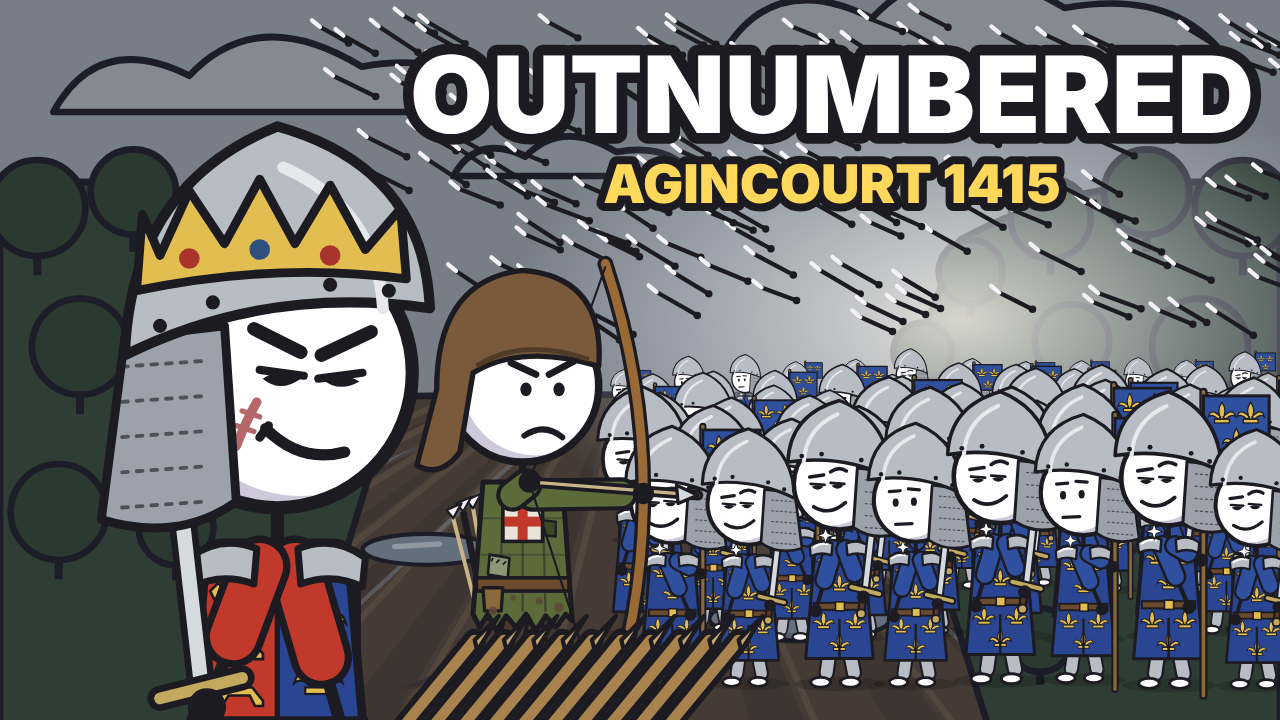
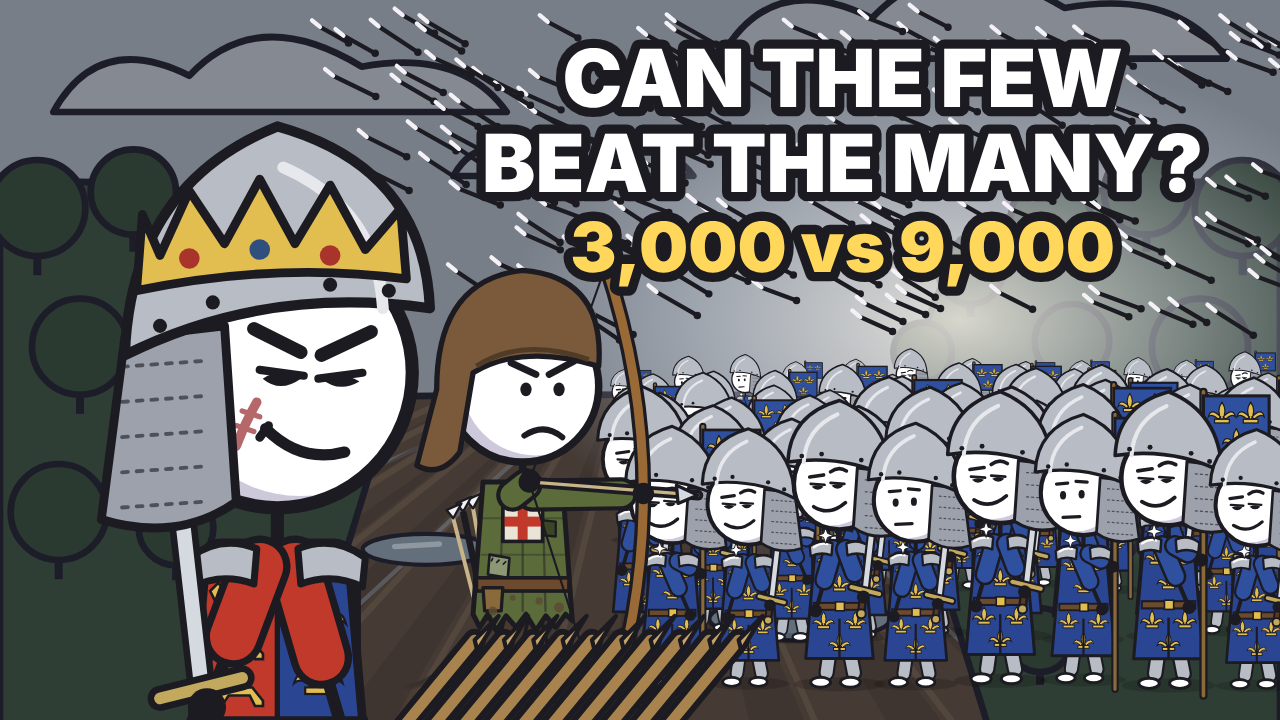
Episode 3 thumbnail: 'Can the few beat the many? 3,000 vs 9,000'
Claude-Session: https://claude.ai/code/session_017MZkjKDMev6tKpnRG7nu5t

Changed region(s): [[0.3125, 0.0306, 1.0, 0.4278]]

diff --git a/episodes/03-agincourt/thumbnail.js b/episodes/03-agincourt/thumbnail.js
@@ -1,6 +1,6 @@
 // Thumbnail for episode 3 (1280x720), drawn with the character code in index.html.
 // Usage: node episodes/03-agincourt/thumbnail.js
-// Idea: "OUTNUMBERED". Henry V (crown on helmet, scar, confident smirk) and a few ragged English
+// Idea: "Can the few beat the many? 3,000 vs 9,000" (owner's wording). Henry V (crown on helmet, scar, confident smirk) and a few ragged English
 // archers behind their stakes in the mud, facing a huge wall of shiny French knights under a
 // sky full of arrows.
 const fs = require("fs"), path = require("path"), vm = require("vm");
@@ -40,8 +40,9 @@ s += put({ outfit: "knight_royal", hat: "royalhelm", prop: "sword", face: "fierc
 // text
 const T = (x, y, size, fill, txt, sw = 9) =>
   `<text x="${x}" y="${y}" font-family="Inter" font-weight="900" font-size="${size}" text-anchor="middle" fill="${fill}" stroke="#1c1b22" stroke-width="${sw}" paint-order="stroke" stroke-linejoin="round">${txt}</text>`;
-s += T(312, 80, 40, "#ffffff", "OUTNUMBERED", 8);
-s += T(312, 106, 20, "#ffd75a", "AGINCOURT 1415", 6);
+s += T(316, 70, 30, "#ffffff", "CAN THE FEW", 7);
+s += T(316, 102, 30, "#ffffff", "BEAT THE MANY?", 7);
+s += T(316, 132, 26, "#ffd75a", "3,000 vs 9,000", 7);
 s += "</svg>";
 
 (async () => {
